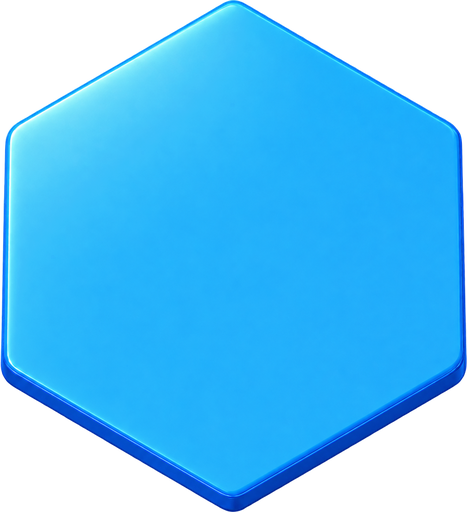
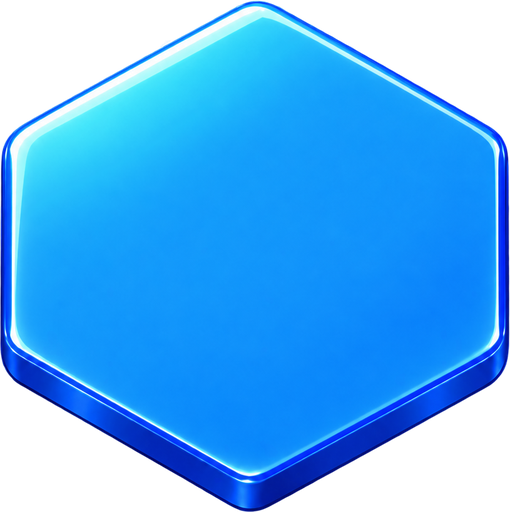
Restore authored pseudo-3D wafers and correct tile well anchors

diff --git a/src/prototype/board.js b/src/prototype/board.js
@@ -3,7 +3,7 @@ import { cellId } from '../game/hex.js';
 import { COLORS, canPlaceMagnet } from './model.js';
 import { sampleTransferTimeline } from './motion.js';
 import { hexContour } from './ring.js';
-import {createChipGeometry,createChipSeamGeometry,CHIP_HEIGHT,topColorCount} from './chip.js';
+import {createChipBodyGeometry,chipLayout,CHIP_HEIGHT,topColorCount} from './chip.js';
 
 const UNIT_HEIGHT = CHIP_HEIGHT;
 const FLOOR = .16;
@@ -13,8 +13,8 @@ export function cellPosition(cell) {
     z: (cell.row - 3) * 1.5 * RADIUS };
 }
 
-// Generated satin caps and thin solid bodies share one Three scene.
-// Every model ID owns one group; the PNG's baked wall is excluded from top UVs.
+// Complete pseudo-3D wafers and tiles share one camera projection.
+// Every model ID owns one group, including transit and clearance.
 export function createThreeBoard(canvas, textures) {
   const renderer = new THREE.WebGLRenderer({ canvas, antialias: true, alpha: true });
   renderer.setClearColor(0x000000, 0);
@@ -29,24 +29,31 @@ export function createThreeBoard(canvas, textures) {
   const resources = new Set(Object.values(textures));
   const own = resource => { resources.add(resource); return resource; };
   const plane = own(new THREE.PlaneGeometry(1, 1));
-  const chipGeometry = own(createChipGeometry()),seamGeometry=own(createChipSeamGeometry());
+  const chipGeometry = own(createChipBodyGeometry());
   const materials = Object.fromEntries(Object.entries(textures).map(([name, texture]) => [name,
     own(new THREE.MeshBasicMaterial({ map: texture, transparent: true, depthTest: false, depthWrite: false, toneMapped: false, side: THREE.DoubleSide }))]));
-  const wallColors={violet:'#7439b4',blue:'#087cb9',coral:'#bd4948'};
+  const wallColors={violet:'#6104b6',blue:'#0067bc',coral:'#bd3010'};
   const chipMaterials = Object.fromEntries(Object.entries(COLORS).map(([color]) => {
     const cap = own(materials['chip-' + color].clone());
-    cap.depthTest = cap.depthWrite = true;
+    cap.depthTest = cap.depthWrite = false;
     const wall = own(new THREE.MeshStandardMaterial({ color:wallColors[color],roughness:.65,metalness:0,toneMapped:false,
-      transparent: true, depthTest: true, depthWrite: true }));
+      transparent: true, depthTest: false, depthWrite: false }));
     return [color, [cap, wall]];
   }));
-  const seamMaterials=Object.fromEntries(Object.entries(wallColors).map(([color,value])=>[color,own(new THREE.MeshBasicMaterial({color:new THREE.Color(value).multiplyScalar(.62),transparent:true,depthTest:true,depthWrite:true,toneMapped:false}))]));
   const tileWidth=Math.sqrt(3)*RADIUS*.995;
   const tileHeight = tileWidth * textures.tile.image.height / textures.tile.image.width;
   const screenUp=new THREE.Vector3(0,1,0).applyQuaternion(camera.quaternion);
+  const chipLayouts=Object.fromEntries(Object.keys(COLORS).map(color=>[color,chipLayout(textures['chip-'+color].image,screenUp.y)]));
+  const shadowCanvas=document.createElement('canvas');shadowCanvas.width=shadowCanvas.height=128;
+  const shadowContext=shadowCanvas.getContext('2d');
+  const gradient=shadowContext.createRadialGradient(64,64,8,64,64,64);
+  gradient.addColorStop(0,'rgba(43,18,53,.38)');gradient.addColorStop(.65,'rgba(43,18,53,.22)');gradient.addColorStop(1,'rgba(43,18,53,0)');
+  shadowContext.fillStyle=gradient;shadowContext.fillRect(0,0,128,128);
+  const shadowTexture=own(new THREE.CanvasTexture(shadowCanvas));shadowTexture.colorSpace=THREE.SRGBColorSpace;
+  const shadowMaterial=own(new THREE.MeshBasicMaterial({map:shadowTexture,transparent:true,depthTest:false,depthWrite:false,toneMapped:false}));
   const pickShape = new THREE.Shape();
   [[0, .5], [.5, .25], [.5, -.25], [0, -.5], [-.5, -.25], [-.5, .25]].forEach(([x, y], index) => {
-    const px=x*tileWidth,py=(y+.5-234/512)*tileHeight;
+    const px=x*tileWidth,py=(y+234/512-.5)*tileHeight;
     if (!index) pickShape.moveTo(px,py); else pickShape.lineTo(px,py);
   });
   pickShape.closePath();
@@ -66,7 +73,7 @@ export function createThreeBoard(canvas, textures) {
   const boardRoot = new THREE.Group(), unitsRoot = new THREE.Group();
   scene.add(boardRoot, unitsRoot);
   const pickMeshes = [], cellMeshes = new Map(), unitMeshes = new Map();
-  const labels=new Map(),labelTextures=new Map();
+  const labels=new Map(),labelTextures=new Map(),shadows=new Map();
   const labelMaterial=count=>{
     if(labelTextures.has(count))return labelTextures.get(count);
     const c=document.createElement('canvas');c.width=128;c.height=128;
@@ -78,6 +85,7 @@ export function createThreeBoard(canvas, textures) {
   let currentLevel = null, disposed = false;
   const raycaster = new THREE.Raycaster(), pointer = new THREE.Vector2();
   const axis = new THREE.Vector3(), projected = new THREE.Vector3();
+  const flip=new THREE.Quaternion();
   function artwork(name, width) {
     const mesh = new THREE.Mesh(plane, materials[name]);
     mesh.quaternion.copy(camera.quaternion);
@@ -95,7 +103,7 @@ export function createThreeBoard(canvas, textures) {
     for (const cell of level.cells) {
       const pos = cellPosition(cell), id = cellId(cell);
       const tile = artwork('tile', tileWidth);
-      tile.position.set(pos.x, FLOOR, pos.z);tile.position.addScaledVector(screenUp,(.5-234/512)*tileHeight);
+      tile.position.set(pos.x, FLOOR, pos.z);tile.position.addScaledVector(screenUp,(234/512-.5)*tileHeight);
       tile.renderOrder = Math.round(pos.z * 100);
       boardRoot.add(tile); cellMeshes.set(id, tile);
       if (blocked.has(id)) {
@@ -112,11 +120,11 @@ export function createThreeBoard(canvas, textures) {
   function unitMesh(unit) {
     if (unitMeshes.has(unit.id)) return unitMeshes.get(unit.id);
     const root = new THREE.Group();
-    const body = new THREE.Mesh(chipGeometry, chipMaterials[unit.color]);
-    body.renderOrder = 1000; body.userData.unitId = unit.id;
-    body.position.y = -UNIT_HEIGHT / 2;
-    root.add(body);
-    const seam=new THREE.Mesh(seamGeometry,seamMaterials[unit.color]);seam.position.y=-UNIT_HEIGHT/2;seam.renderOrder=1000;root.add(seam);
+    const layout=chipLayouts[unit.color];
+    const backing=new THREE.Mesh(chipGeometry,chipMaterials[unit.color][1]);
+    backing.position.y=layout.offset;root.add(backing);
+    const face=new THREE.Mesh(plane,chipMaterials[unit.color][0]);
+    face.scale.set(layout.width,layout.height,1);face.position.y=layout.offset;root.add(face);
     unitsRoot.add(root); unitMeshes.set(unit.id, root);
     return root;
   }
@@ -128,7 +136,7 @@ export function createThreeBoard(canvas, textures) {
     const alive = new Set();
     for (const pose of poses) {
       const mesh = unitMesh(pose); alive.add(pose.id);
-      mesh.rotation.set(0, 0, 0); mesh.scale.setScalar(pose.scale);
+      mesh.quaternion.copy(camera.quaternion); mesh.scale.setScalar(pose.scale);
       if (pose.from) {
         const from = cellPosition(pose.from), to = cellPosition(pose.to);
         const p = pose.progress, ease = p * p * (3 - 2 * p);
@@ -137,11 +145,16 @@ export function createThreeBoard(canvas, textures) {
         if (!timeline.reduced) {
           mesh.position.y += Math.sin(p * Math.PI) * .54;
           axis.set(to.z - from.z, 0, from.x - to.x).normalize();
-          mesh.setRotationFromAxisAngle(axis, -Math.PI * 2 * ease);
+          flip.setFromAxisAngle(axis, -Math.PI * 2 * ease);
+          mesh.quaternion.premultiply(flip);
         }
       } else {
         const pos = cellPosition(pose.cell); mesh.position.set(pos.x, FLOOR + (pose.index + .5) * UNIT_HEIGHT, pos.z);
       }
+      // Draw back cells first, then their layers. Flights stay above stacks.
+      const order=pose.from?18000:6000+Math.round(mesh.position.z*100)*20+(pose.index??0)*2;
+      mesh.children[0].renderOrder=order;mesh.children[1].renderOrder=order+1;
+      mesh.children[0].visible=Boolean(pose.from);
       mesh.userData = { id: pose.id, color: pose.color, cell: pose.cell ?? null, index: pose.index ?? null,
         moving: Boolean(pose.from), from: pose.from, to: pose.to, progress: pose.progress, scale: pose.scale };
     }
@@ -152,9 +165,13 @@ export function createThreeBoard(canvas, textures) {
     for(const [id,units] of stacks){
       units.sort((a,b)=>a.index-b.index);const count=topColorCount(units),top=units.at(-1),pos=cellPosition(top.cell);
       let badge=labels.get(id);if(!badge){badge=new THREE.Sprite(labelMaterial(count));badge.scale.set(.48,.48,1);badge.renderOrder=20000;scene.add(badge);labels.set(id,badge);}
-      badge.material=labelMaterial(count);badge.position.set(pos.x,FLOOR+(top.index+1)*UNIT_HEIGHT+.003,pos.z);badge.userData={cell:top.cell,count};
+      badge.material=labelMaterial(count);badge.position.set(pos.x,FLOOR+(top.index+.5)*UNIT_HEIGHT,pos.z);
+      badge.position.addScaledVector(screenUp,chipLayouts[top.color].offset+.028);badge.userData={cell:top.cell,count};
+      let shadow=shadows.get(id);if(!shadow){shadow=new THREE.Mesh(plane,shadowMaterial);shadow.quaternion.copy(camera.quaternion);shadow.scale.set(.99,.8,1);shadow.renderOrder=700;scene.add(shadow);shadows.set(id,shadow);}
+      shadow.position.set(pos.x,FLOOR,pos.z);shadow.position.addScaledVector(screenUp,-.065);
     }
     for(const [id,badge]of labels)if(!stacks.has(id)){scene.remove(badge);labels.delete(id);}
+    for(const [id,shadow]of shadows)if(!stacks.has(id)){scene.remove(shadow);shadows.delete(id);}
     for (const [id, tile] of cellMeshes) {
       tile.material = materials.tile;
       if (hover && cellId(hover) === id && selected && !paused) tile.material = canPlaceMagnet(state, hover) ? validMaterial : invalidMaterial;
@@ -179,6 +196,16 @@ export function createThreeBoard(canvas, textures) {
     camera.top = halfHeight; camera.bottom = -halfHeight;
     camera.updateProjectionMatrix(); camera.updateMatrixWorld();
   }
+  function placementProof() {
+    const projectPoint=(mesh,x,y)=>new THREE.Vector3(x,y,0).applyMatrix4(mesh.matrixWorld).project(camera).toArray().slice(0,2);
+    return [...unitMeshes.values()].filter(mesh=>!mesh.userData.moving&&mesh.userData.index===0).map(mesh=>{
+      const tile=cellMeshes.get(cellId(mesh.userData.cell)),face=mesh.children[1];
+      return {cell:mesh.userData.cell,
+        footprint:[[0,.5],[.5,.25],[.5,-.25],[0,-.5],[-.5,-.25],[-.5,.25]].map(([x,y])=>projectPoint(face,x,y)),
+        well:[[235,53],[420,155],[420,310],[235,415],[50,310],[50,155]].map(([x,y])=>projectPoint(tile,x/471-.5,.5-y/512)),
+        facing:new THREE.Vector3(0,0,1).applyQuaternion(mesh.quaternion).dot(new THREE.Vector3(0,0,1).applyQuaternion(camera.quaternion))};
+    });
+  }
   return {
     draw, resize,
     pick(clientX, clientY) {
@@ -193,13 +220,14 @@ export function createThreeBoard(canvas, textures) {
       projected.set(pos.x, FLOOR, pos.z).project(camera);
       return { x: rect.left + (projected.x + 1) * rect.width / 2, y: rect.top + (1 - projected.y) * rect.height / 2 };
     },
-    snapshot() { return { engine: 'Three.js', revision: THREE.REVISION, artwork: 'generated-satin-chips', meshes: unitMeshes.size,
+    snapshot() { return { engine: 'Three.js', revision: THREE.REVISION, artwork: 'authored-pseudo3d-wafers', meshes: unitMeshes.size,
       counts:[...labels.values()].map(b=>b.userData),
+      placement:placementProof(),
       units: [...unitMeshes.values()].map(mesh => ({ ...mesh.userData, position: mesh.position.toArray(), height: UNIT_HEIGHT * mesh.scale.x })),
       geometries: renderer.info.memory.geometries, textures: renderer.info.memory.textures, drawCalls: renderer.info.render.calls }; },
     dispose() {
       if (disposed) return;
-      disposed = true; scene.clear(); unitMeshes.clear(); cellMeshes.clear(); labels.clear();labelTextures.clear();pickMeshes.length = 0;
+      disposed = true; scene.clear(); unitMeshes.clear(); cellMeshes.clear(); labels.clear();shadows.clear();labelTextures.clear();pickMeshes.length = 0;
       for (const resource of resources) resource.dispose();
       resources.clear(); renderer.dispose();
     },

diff --git a/tests/chip.test.js b/tests/chip.test.js
@@ -1,18 +1,23 @@
 import test from 'node:test';
 import assert from 'node:assert/strict';
 import * as THREE from 'three';
-import {createChipGeometry,createChipSeamGeometry,CHIP_HEIGHT,CHIP_RADIUS,CHIP_SEAM,chipFaceUV,topColorCount} from '../src/prototype/chip.js';
-test('thin solid chip and seam meet with exact per-unit height and no ring hole',()=>{
- const top=createChipGeometry(),seam=createChipSeamGeometry();top.computeBoundingBox();seam.computeBoundingBox();
- assert.ok(Math.abs(top.boundingBox.min.y-CHIP_SEAM)<1e-6);assert.ok(Math.abs(top.boundingBox.max.y-CHIP_HEIGHT)<1e-6);
- assert.ok(Math.abs(seam.boundingBox.min.y)<1e-6);assert.ok(Math.abs(seam.boundingBox.max.y-CHIP_SEAM)<1e-6);
- assert.ok(CHIP_RADIUS+.008<.64*.78);assert.ok(CHIP_HEIGHT<.075);
- // Ray through the centre must hit a solid cap (legacy ring centre was empty).
- const material=new THREE.MeshBasicMaterial({side:THREE.DoubleSide}),mesh=new THREE.Mesh(top,material);mesh.updateMatrixWorld();
- const hits=new THREE.Raycaster(new THREE.Vector3(0,1,0),new THREE.Vector3(0,-1,0)).intersectObject(mesh);
- assert.ok(hits.some(h=>Math.abs(h.point.y-CHIP_HEIGHT)<1e-6),'centre has a hole');material.dispose();
- for(let i=0;i<6;i++){const angle=i*Math.PI/3,uv=chipFaceUV(Math.sin(angle)*CHIP_RADIUS,Math.cos(angle)*CHIP_RADIUS);assert.ok(uv.x>=0&&uv.x<=1&&uv.y>=.04&&uv.y<=.992,'UV enters baked front wall');}
- top.dispose();seam.dispose();
+import {createChipBodyGeometry,CHIP_DEPTH,CHIP_HEIGHT,chipLayout,topColorCount} from '../src/prototype/chip.js';
+test('backing prism is thin and solid during a flip',()=>{
+ const geometry=createChipBodyGeometry();geometry.computeBoundingBox();
+ assert.ok(Math.abs(geometry.boundingBox.min.z+CHIP_DEPTH)<1e-6);
+ assert.ok(Math.abs(geometry.boundingBox.max.z)<1e-6);
+ assert.ok(CHIP_DEPTH<.04);
+ const material=new THREE.MeshBasicMaterial({side:THREE.DoubleSide}),mesh=new THREE.Mesh(geometry,material);mesh.updateMatrixWorld();
+ const hits=new THREE.Raycaster(new THREE.Vector3(0,0,1),new THREE.Vector3(0,0,-1)).intersectObject(mesh);
+ assert.ok(hits.length,'flip exposes a hollow centre');material.dispose();geometry.dispose();
+});
+test('base wafer anchor is stable for each asset aspect and camera tilt',()=>{
+ for(const width of [508,509,510])for(const screenUpY of [.4,.54,.8]){
+  const layout=chipLayout({width,height:512},screenUpY);
+  const centre=CHIP_HEIGHT*.5*screenUpY+layout.offset;
+  assert.ok(Math.abs(centre-(.52-.5)*layout.height)<1e-9,'base shifts when camera changes');
+  assert.ok(CHIP_HEIGHT*screenUpY<layout.height*.16,'individual layers became thick');
+ }
 });
 test('chip badge counts contiguous exposed color, including zero and twenty',()=>{
  assert.equal(topColorCount([]),0);assert.equal(topColorCount(['violet','blue','violet'].map(color=>({color}))),1);

diff --git a/src/prototype/chip.js b/src/prototype/chip.js
@@ -2,29 +2,32 @@ import * as THREE from 'three';
 import { hexContour } from './ring.js';
 
 export const CHIP_RADIUS = .4352;
-export const CHIP_HEIGHT = .064;
-export const CHIP_SEAM = .012;
-const BEVEL = .008;
-// Generated sprites: only top-face pixels, excluding the painted lower wall.
-export function chipFaceUV(x,y) {
-  return new THREE.Vector2(.5+x/(Math.sqrt(3)*CHIP_RADIUS)*.97,
-    1-(.477-y/CHIP_RADIUS*.468));
+export const CHIP_WIDTH = Math.sqrt(3) * CHIP_RADIUS;
+// World-space rise projects to about one tenth of a wafer's width on screen.
+export const CHIP_HEIGHT = .14;
+export const CHIP_DEPTH = .028;
+export const CHIP_ANCHOR = .52;
+
+// Complete authored wafer: cap, bevel and front wall share the tile's camera.
+export function chipLayout(image, screenUpY) {
+  const height = CHIP_WIDTH * image.height / image.width;
+  return { width: CHIP_WIDTH, height,
+    offset: (CHIP_ANCHOR - .5) * height - CHIP_HEIGHT * .5 * screenUpY };
 }
-export function createChipGeometry() {
-  const geometry=new THREE.ExtrudeGeometry(hexContour(CHIP_RADIUS),{
-    depth:CHIP_HEIGHT-CHIP_SEAM-2*BEVEL,bevelEnabled:true,
-    bevelSize:BEVEL,bevelThickness:BEVEL,bevelSegments:3,curveSegments:6,steps:1,
-    UVGenerator:{generateTopUV:(_,vertices,...indices)=>indices.map(i=>chipFaceUV(vertices[i*3],vertices[i*3+1])),
-      generateSideWallUV:(_,vertices,...indices)=>indices.map(i=>new THREE.Vector2(vertices[i*3],vertices[i*3+2]))}
+
+// Thin backing supplies an edge during flips, behind the complete raster.
+export function createChipBodyGeometry() {
+  const geometry = new THREE.ExtrudeGeometry(hexContour(CHIP_RADIUS * .985), {
+    depth: CHIP_DEPTH, bevelEnabled: false, curveSegments: 6, steps: 1,
   });
-  geometry.rotateX(-Math.PI/2);geometry.translate(0,CHIP_SEAM+BEVEL,0);return geometry;
+  geometry.scale(1, Math.sqrt(3) / 2 * 512 / 510, 1);
+  geometry.translate(0, 0, -CHIP_DEPTH);
+  return geometry;
 }
-export function createChipSeamGeometry(){
- const g=new THREE.ExtrudeGeometry(hexContour(CHIP_RADIUS-.002),{depth:CHIP_SEAM,bevelEnabled:false,curveSegments:6,steps:1});
- g.rotateX(-Math.PI/2);return g;
-}
-export function topColorCount(units){
- const color=units.at(-1)?.color;let count=0;
- for(let i=units.length-1;i>=0&&units[i].color===color;i--)count++;
- return count;
+
+export function topColorCount(units) {
+  const color = units.at(-1)?.color;
+  let count = 0;
+  for (let i = units.length - 1; i >= 0 && units[i].color === color; i--) count++;
+  return count;
 }

diff --git a/docs/design/THREE_RENDERING.md b/docs/design/THREE_RENDERING.md
@@ -18,7 +18,8 @@ View не вызывает симулятор. Модель не знает о T
 ## Рендер и ввод
 
 - WebGLRenderer, WebGL 2; OrthographicCamera под фиксированным углом. Нет OrbitControls или второго animation loop.
-- Отдельная mesh-группа на реальный элемент; фактическая высота соответствует индексу в массиве units. С 2026-10-11 фишки сплошные: общая ExtrudeGeometry с вершиной hex вверх, радиусом 0.4352, толщиной 0.064, включая разделительный край 0.012. Верх использует сгенерированный satin-PNG без нарисованной боковины; боковина и фаски объёмные, с мягким освещением. Вращение идёт вокруг центра фишки. Плитки и магниты остаются PNG-плоскостями. Кремовая плитка привязана к центру внутреннего углубления; меньший радиус фишки оставляет бордер открытым.
+- Отдельная mesh-группа на реальный элемент; индекс в массиве units определяет подъём слоя. После визуальной коррекции 2026-10-11 используется полный псевдо‑3D PNG: верх, яркая фаска и передняя стенка. Фишка и плитка смотрят в одну камеру; PNG не подвергается повторному наклону. Радиус 0.4352, подъём слоя в world Y 0.14; это шаг presentation, а не толщина физического тела. Тонкая backing ExtrudeGeometry глубиной 0.028 видна только при перелёте и даёт ребро на перевороте. Вращение применяется поверх ориентации камеры. Сначала рисуются задние клетки, затем их слои, затем перелёты и цифры.
+- Центр внутреннего углубления кремовой плитки — пиксель y=234 из 512. Сдвиг плоскости `(234/512 - .5) * tileHeight` направлен вниз по screen-up; прежний обратный знак смещал основание к нижнему бордеру. Якорь фишки .52 учитывает её нарисованную переднюю стенку. Контур нижней фишки проверяется внутри всех шести граней углубления. Контактная тень использует одну общую CanvasTexture.
 - Sprite-счётчик показывает непрерывную верхнюю группу цвета среди стоящих элементов presentation. Вылетевшие и очищаемые элементы в счётчик не входят; прилетевшие добавляются при посадке. Шрифт Nunito декодируется до создания текстур цифр.
 - Resize задаёт CSS размер, drawing buffer с текущим DPR и frustum камеры. Весь board остаётся в кадре portrait/landscape.
 - Pointer переводится из актуального `canvas.getBoundingClientRect()` в NDC, затем Raycaster проверяет плитки. Модель повторно проверяет разрешение на placement; target от view — только cell, не mesh.
@@ -27,7 +28,7 @@ View не вызывает симулятор. Модель не знает о T
 
 ## Lifecycle и стоимость
 
-Перенос 2026-10-11 использует общие геометрии; browser-проверка фиксирует шесть GPU-геометрий без роста при reset. Восемь PNG sRGB-текстур дополняются кешируемыми текстурами цифр по числу верхних элементов. Фишки записывают глубину и перекрывают друг друга по реальному положению. PNG плиток не перекрывают нижние слои стопки. Raycast соответствует видимому контуру плитки. Нет PMREM, постобработки и теневых карт. PNG загружаются и декодируются до ввода, включая DOM/nine-slice ресурсы. При ошибке партии успешные текстуры освобождаются; generation token отклоняет результаты после retry/dispose. Подробности переноса: [SATIN_CHIP_TRANSFER](../reports/SATIN_CHIP_TRANSFER.md). DOM +6 берётся из события очистки, не вычисляет игровой результат.
+Текущая browser-проверка фиксирует пять GPU-геометрий без роста при reset. Восемь PNG sRGB-текстур дополняются общей контактной тенью и кешируемыми текстурами цифр. Растровые фишки используют явный painter order без depth write: альфа нарисованной стенки не обрезается соседней плоскостью. Raycast соответствует видимому контуру плитки. Нет PMREM, постобработки и теневых карт. PNG загружаются и декодируются до ввода, включая DOM/nine-slice ресурсы. При ошибке партии успешные текстуры освобождаются; generation token отклоняет результаты после retry/dispose. Подробности: [PSEUDO3D_CHIP_PLACEMENT](../reports/PSEUDO3D_CHIP_PLACEMENT.md). DOM +6 берётся из события очистки, не вычисляет игровой результат.
 
 RAF принадлежит runtime и нужен только при активной timeline. Pause/hidden сбрасывают накопитель и предыдущий timestamp. Reset удаляет presentation и восстанавливает исходные units, переиспользуя renderer и GPU-ресурсы. При смене уровня mesh-экземпляры пересоздаются, shared buffers остаются.
 

diff --git a/docs/reports/PSEUDO3D_CHIP_PLACEMENT.md b/docs/reports/PSEUDO3D_CHIP_PLACEMENT.md
@@ -1,0 +1,21 @@
+# Псевдо‑3D объём и посадка фишек
+
+2026-10-11. Пользователь сравнил игру с исходным мокапом: слишком плоский верх, невыразительные боковины, основания смещены относительно углублений. Исправление заменяет первый перенос satin-верхов.
+
+## Причина и изменение
+
+Плитки уже рисовались лицом к камере, а верхние грани фишек — в наклонной мировой плоскости. Ракурсы и свет расходились. Кроме того, плитка с центром углубления y=234/512 смещалась вверх вместо вниз: локальное смещение этого пикселя удваивалось. Проверка реального экранного контура воспроизвела заход основания на нижний бордер.
+
+Теперь целиком используются сгенерированные glossy-фишки из `docs/design/prototypes/gameplay-counted-hex/assets/chip-{violet,blue,coral}.png`, скопированные в одноимённые `public/art/mockup/` без редактирования. Их верх, яркая фаска и нарисованная боковина сохранены. Повторная генерация не понадобилась: эти ранее созданные ассеты дают нужный выраженный объём. Проекция фишки совпадает с проекцией плитки; нижний слой привязан к центру углубления. PNG-якорь .52, радиус .4352, подъём слоя world Y .14. Этот подъём даёт экранный шаг около 10% ширины фишки; глубина отдельного backing prism при перевороте — .028.
+
+Исправлен знак смещения плитки и её raycast-контура. Тень контакта общая, мягкая. Порядок рисования учитывает ряд и индекс элемента; движущиеся фишки выше стоящих. При перелёте работает та же поэлементная timeline с дугой и переворотом, поверх базового ракурса; reduced motion сохраняется. Число PNG-групп равно числу ID модели, счётчик относится к верхней непрерывной группе стоящих элементов.
+
+## Проверки
+
+- Unit: три теста `tests/chip.test.js` — тонкий сплошной backing, устойчивость якоря к пропорциям PNG/ракурсу, числа в пустой/смешанной/20-элементной группе.
+- `GAME_BASE_URL=http://127.0.0.1:5174 node tools/chip-browser-check.cjs`: 782 кадра трёх уровней в обоих профилях движения; уникальные ID, число перелётов, позиции слоёв и счётчики. На каждом проверяемом основании все шесть вершин фактически преобразованного PNG находятся внутри всех граней измеренного внутреннего углубления. Ракурс стоящей фишки совпадает с плиткой. Пять GPU-геометрий без накопления при смене уровней. Стопки 20 элементов просмотрены в viewport 320/390/430. Сумма активных перелётов по кадрам — 1237, не число уникальных переносов.
+- `GAME_BASE_URL=http://127.0.0.1:5174 node tools/browser-check.cjs`: desktop/mobile viewport, tap/drag/keyboard, invalid/lock, pause/reset во время движения, reduced motion, resize и dispose — успешно. Лог `artifacts/gameplay-counted-hex/pseudo3d-runtime-browser.log`.
+- `pnpm check:full`: тесты и сборка прошли. Лог `artifacts/gameplay-counted-hex/pseudo3d-check-full.log`.
+- Ручная проверка через браузер: исходные стопки, размещение магнита, анимация, победа и переход на второй уровень. Полный экран со всеми цветами сохранён в `artifacts/gameplay-counted-hex/pseudo3d-game-proof.png`.
+
+Три авторских уровня и правила сохранены; это исправление представления, а не изменение контента полей. Реальный телефон и его производительность не проверены. У 20 тонких элементов ручной пересчёт на малом экране сложнее, чем чтение счётчика.

diff --git a/docs/PROJECT.md b/docs/PROJECT.md
@@ -9,13 +9,13 @@
 | `src/prototype/model.js` | Rules v3: ordered units, immutable applyMagnet, BFS, верхний цвет, очистка по 6, победа/поражение |
 | `src/prototype/levels.js` | Три авторских поля и детерминированные решения |
 | `src/prototype/motion.js` | Поэлементная timeline: запуск, соседний полёт, посадка, очистка, reduced motion |
-| `src/prototype/board.js`, `chip.js`, `ring.js` | Three.js 0.186.1, OrthographicCamera, тонкие сплошные фишки с PNG-текстурой верха и счётчиком верхнего цвета; ring.js предоставляет общий hex-контур, raycasting, GPU cleanup |
+| `src/prototype/board.js`, `chip.js`, `ring.js` | Three.js 0.186.1, OrthographicCamera, полные псевдо‑3D PNG-фишки в проекции плиток, backing prism при перелёте, счётчик верхнего цвета; общий hex-контур, raycasting, GPU cleanup |
 | `src/prototype/assets.js`, `public/art/mockup/` | Декодирование PNG до ввода, общие текстуры, nine-slice рамки, manifest вырезок |
 | `src/prototype/App.js`, `prototype.css` | Preact HUD, магниты, правила, hint/result/retry, адаптивная композиция |
 | `src/game/hex.js`, `src/loop.js` | Переиспользуемые чистые hex helpers и fixed step |
 | `tests/prototype-v3.test.js` | Соседство каждого переноса, открытые слои, масса, immutable state, все legal first placements, решения и timeline |
 | `tools/browser-check.cjs` | Новый desktop/mobile viewport сценарий Three.js; `pnpm test:browser` |
-| `tests/chip.test.js`, `tools/chip-browser-check.cjs` | Сплошной центр, физическая толщина, UV без нарисованной боковины; число элементов, счётчики и позиции на 782 кадрах, высокие стопки 20 элементов |
+| `tests/chip.test.js`, `tools/chip-browser-check.cjs` | Тонкое объёмное ребро перелёта, стабильный якорь, основание внутри всех граней углубления, совпадение проекции; число элементов и счётчики на 782 кадрах, стопки 20 элементов |
 | `tests/ring.test.js`, `tools/ring-browser-check.cjs` | Исторические проверки предыдущих колец; browser-сценарий не соответствует текущим сплошным фишкам |
 | `src/legacy-main.js`, `tools/legacy-browser-check.cjs` | Сохранённые entry/браузерный сценарий прежнего MVP, не подключённые новым entry |
 | `docs/design/GDD_V0.3.md`, `THREE_RENDERING.md` | Актуальные правила и renderer contract |

diff --git a/README.md b/README.md
@@ -6,7 +6,7 @@
 
 Исправления 2026-10-10: объёмные кольца совпадают с ориентацией клеток; каждый видимый слой соответствует одному элементу модели, включая перелёт. Очищены плитки и стыки растровых рамок. [Отчёт](docs/reports/RING_VISUAL_FIXES.md).
 
-Перенос 2026-10-11: активная игра использует тонкие сплошные фишки с верхней гранью из сгенерированного satin-мокапа и объёмной боковиной. Цифра показывает размер непрерывной верхней группы цвета; каждый слой и перелёт соответствует элементу модели. Посадка учитывает внутреннюю часть кремовой плитки. [Результат и проверки](docs/reports/SATIN_CHIP_TRANSFER.md).
+Перенос 2026-10-11: активная игра использует полные сгенерированные псевдо‑3D фишки с яркой фаской и передней стенкой. Проекция совпадает с плиткой; исправлен знак смещения её внутреннего углубления. Цифра показывает размер непрерывной верхней группы цвета; каждый слой и перелёт соответствует элементу модели. [Первый перенос](docs/reports/SATIN_CHIP_TRANSFER.md), [исправление объёма и посадки](docs/reports/PSEUDO3D_CHIP_PLACEMENT.md).
 
 В [Figma](https://www.figma.com/design/Nntj95XfGJSGVy0FwadZMN?node-id=5-4448) пересобраны 12 оригинальных мокапов на странице `01 Exact mockup slices`: 615 заново вырезанных растровых слоёв, исходные пропорции и оформление. Предыдущая векторная перерисовка архивирована. [Нарезка, проверки и границы подготовки к игре](docs/design/FIGMA_ASSEMBLY.md). Runtime на этом этапе не изменяется.
 

diff --git a/docs/reports/SATIN_CHIP_TRANSFER.md b/docs/reports/SATIN_CHIP_TRANSFER.md
@@ -1,5 +1,7 @@
 # Satin-фишки в активной игре
 
+Исторический первый перенос. Визуальная версия ниже отклонена пользователем; текущая коррекция — [PSEUDO3D_CHIP_PLACEMENT](PSEUDO3D_CHIP_PLACEMENT.md). Предыдущее утверждение о посадке не учитывало неверный знак сдвига плитки; новая проверка измеряет реальный экранный контур.
+
 2026-10-11. Пользователь разрешил перенести понравившиеся сгенерированные фишки из мокапа в действующую Three.js-игру. Это расширение за пределы прежней подготовки макета в Figma.
 
 ## Источник и результат
